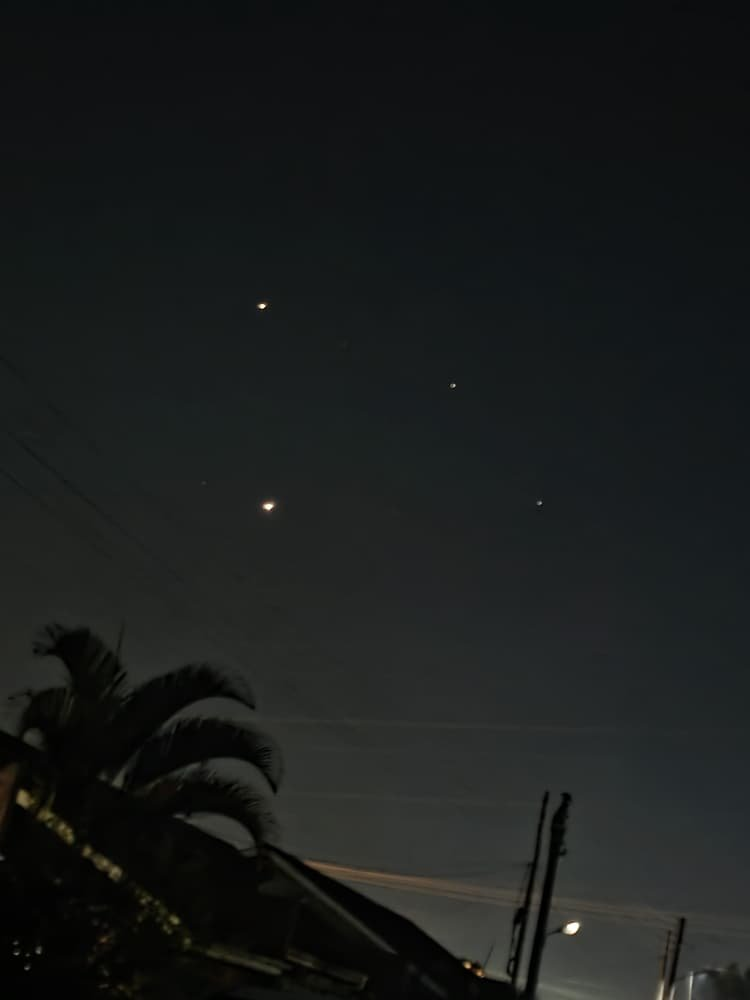
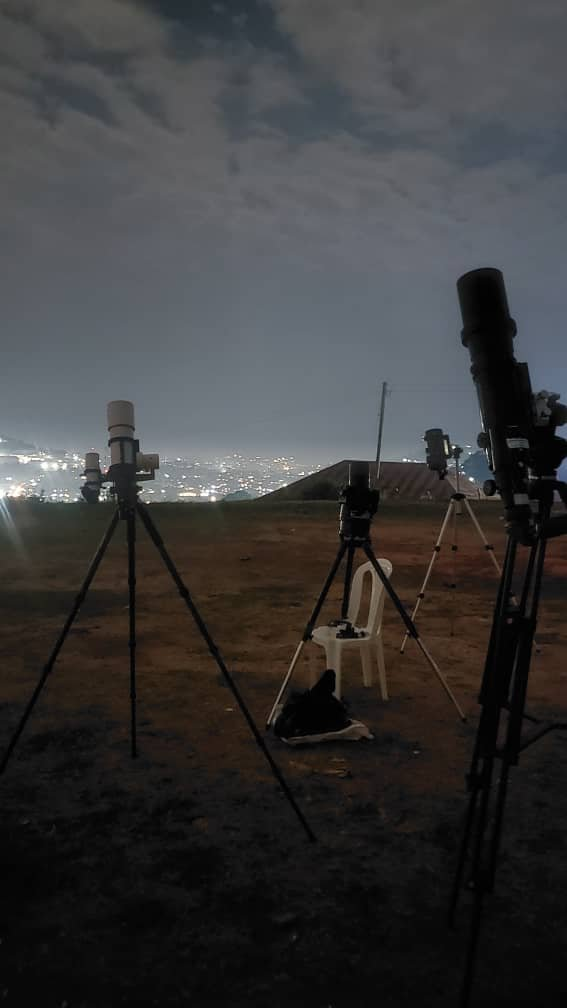
Batch 2 photos: La Brise weekend event, home gallery upgrades

diff --git a/index.html b/index.html
@@ -217,10 +217,10 @@
       <p class="section-subtitle">Nights under the stars, classrooms, and community</p>
       <div style="display:grid;grid-template-columns:repeat(3,1fr);gap:1rem" class="home-gallery">
         <div style="border-radius:var(--radius-lg);overflow:hidden">
-          <img src="img/home-observing.jpg" alt="Night sky observed from Uganda" style="width:100%;height:220px;object-fit:cover;display:block" loading="lazy">
+          <img src="img/home-observing.jpg?v=20260911-3" alt="Telescopes set up for a UAS observing night" style="width:100%;height:220px;object-fit:cover;display:block" loading="lazy">
         </div>
         <div style="border-radius:var(--radius-lg);overflow:hidden">
-          <img src="img/home-outreach.jpg?v=20260911" alt="UAS astronomy outreach event" style="width:100%;height:220px;object-fit:cover;display:block" loading="lazy">
+          <img src="img/home-outreach.jpg?v=20260911-3" alt="Young astronomers queuing at a UAS telescope" style="width:100%;height:220px;object-fit:cover;display:block" loading="lazy">
         </div>
         <div style="border-radius:var(--radius-lg);overflow:hidden">
           <img src="img/home-events.jpg" alt="Moon observation" style="width:100%;height:220px;object-fit:cover;display:block" loading="lazy">
